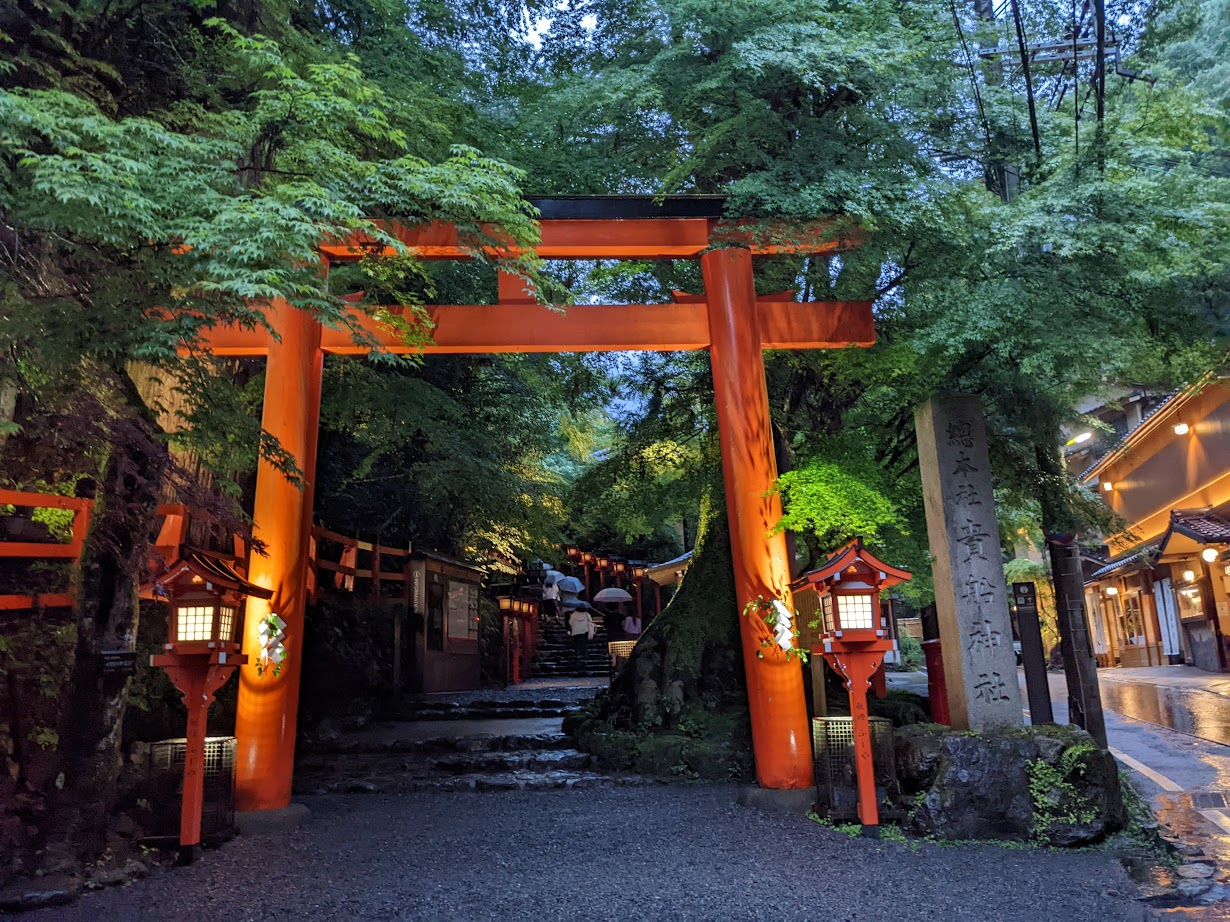
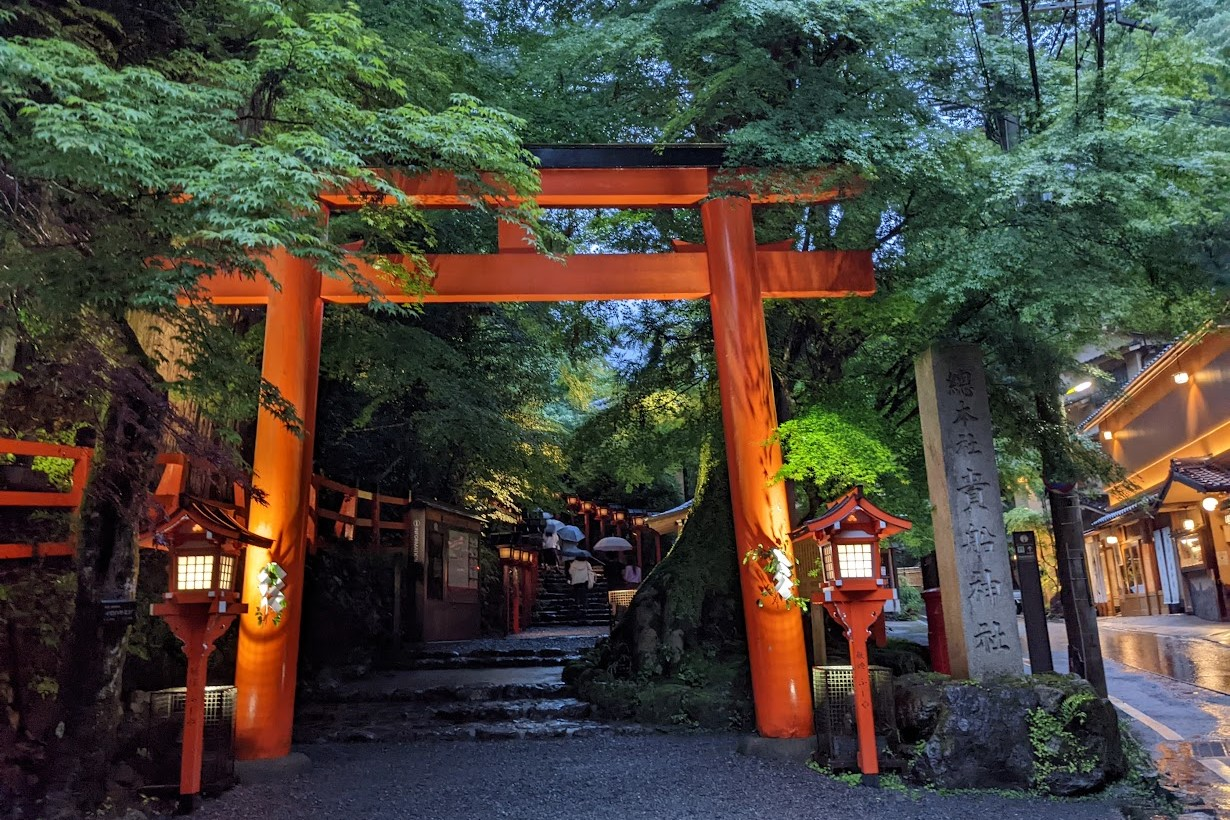
7/6日記更新

diff --git a/components/post-header.tsx b/components/post-header.tsx
@@ -19,7 +19,7 @@ const PostHeader = ({ title, coverImage, date, author }: Props) => {
         <Avatar name={author.name} picture={author.picture} />
       </div>
       <div className="mb-8 md:mb-16 sm:mx-0 flex items-center justify-center">
-        <CoverImage title={title} src={coverImage} width={1000} height={500}/>
+        <CoverImage title={title} src={coverImage} width={900} height={600}/>
       </div>
       <div className="max-w-2xl mx-auto">
         <div className="block md:hidden mb-6">

diff --git a/_posts/2022-07-06.md b/_posts/2022-07-06.md
@@ -1,0 +1,37 @@
+---
+title: 'サラダと疎外'
+excerpt: ''
+coverImage: '/assets/blog/preview/supplement.jpg'
+date: '2022-07-06'
+author:
+  name: 花初そたい
+  picture: '/assets/blog/authors/sotai.jpeg'
+ogImage:
+  url: '/assets/blog/preview/supplement.jpg'
+---
+# 雑記
+
+### サラダ記念日
+今日はサラダ記念日とのこと。なんだかごくごく個人的なことを歌った短歌がこれだけ広まり、いろいろな人がまるでキャンペーンでも打たれているかのように話題に出すというのはなんだかすごい気がする。
+とはいえ、この有名な歌も最近は[違う受容のされ方](https://twitter.com/Kawade_shobo/status/1544415855580426240)をしているらしい。
+なるほどな～。
+
+### サラダ
+京都にいた時よく通っており、先日も行った「サラダの店　サンチョ」が[おいしいサラダの作り方](https://sancho.co.jp/etc/mksalad/)を公開していた。
+サンチョのサラダはクタクタ加減とシャキシャキ加減がいい塩梅でうまいのだが、これを見る限り水分量がコツっぽい。サラダなんてめったに作らないけど（作り置きできないし！）試してみたくなってきた。玉ねぎが安かったらかな。
+
+### アウトソーシング
+手作りのサラダと対面のコミュニケーションが再評価される一方で、外食チェーンが注文用紙と番号を導入したことを嘆くツイートが叩かれまくっていた。話としてはけっこうベタな疎外論な気がするし、関心がないジャンルでもないはずなのだけど、どうもイマイチ乗れない。そもそも個人的には外食産業に期待をしていないからだろうか。人の手で丹精込めて作られたものが食べたければ自分で作ればよいのだし、外食チェーンが資本主義の加速に向かうのはもうどうしようもない気がする。そういうものと割り切って食べている。
+そういった個人主義は置いておいて、旗を振る人は必要なんだろうとは思う。けど、単なるぼやきに過ぎないあのツイートが（当該チェーンの人気も大きかっただろうけど）これだけ理不尽に燃えてしまう今、資本による管理主義社会の進行を止めるものはあるのだろうか。少なくとも、合理主義と能力主義が金科玉条とされる一部のツイッターには、今のところ見つけられない。
+
+# 進捗
+### 気になること
+- 前の日・次の日に飛ぶボタンを実装したい
+- SNSシェアボタンを実装したい
+  - react-shareライブラリで簡単にいけるっぽいけど、モノクロのアイコンがないのが気になる
+  - そもそもシェアボタンいらない気がしてきた。毎回URLツイートするのもそんなに手間じゃないし
+- やっぱりツイッターカードは表示されてほしい
+  - 手で実装するか、ライブラリを持ってきたあとでcssを調整するか……
+- 表示サイズを指定しているせいで、カバー画像がゆがむ
+  - 元のサイズに合わせてもそれはそれでデザインが崩れてヤダな。面倒だけど、縦横比だけ固定して画像をトリミングする形でいい気がしてきた
+- 汎用カバー画像を何種類か用意したい
